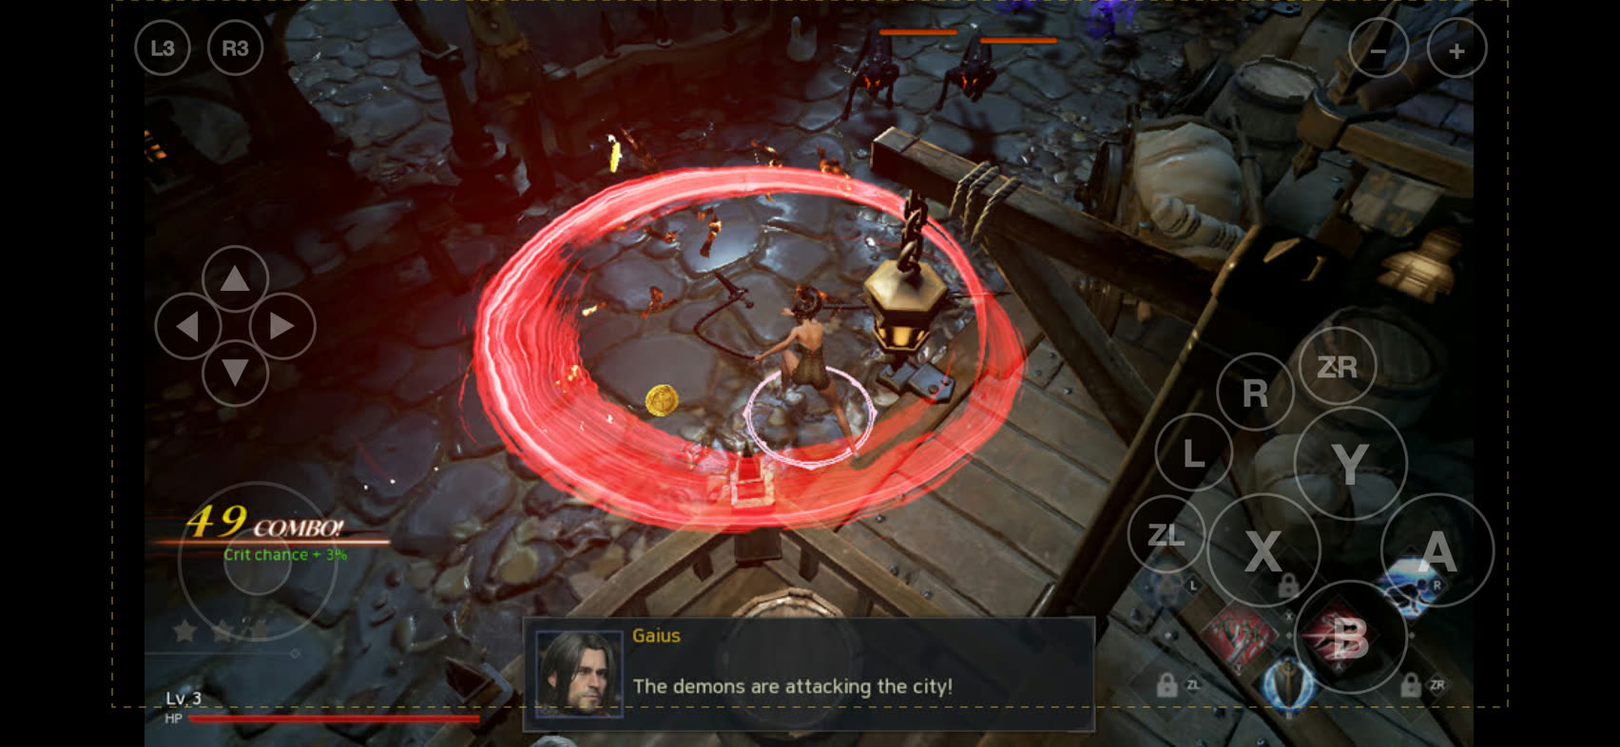
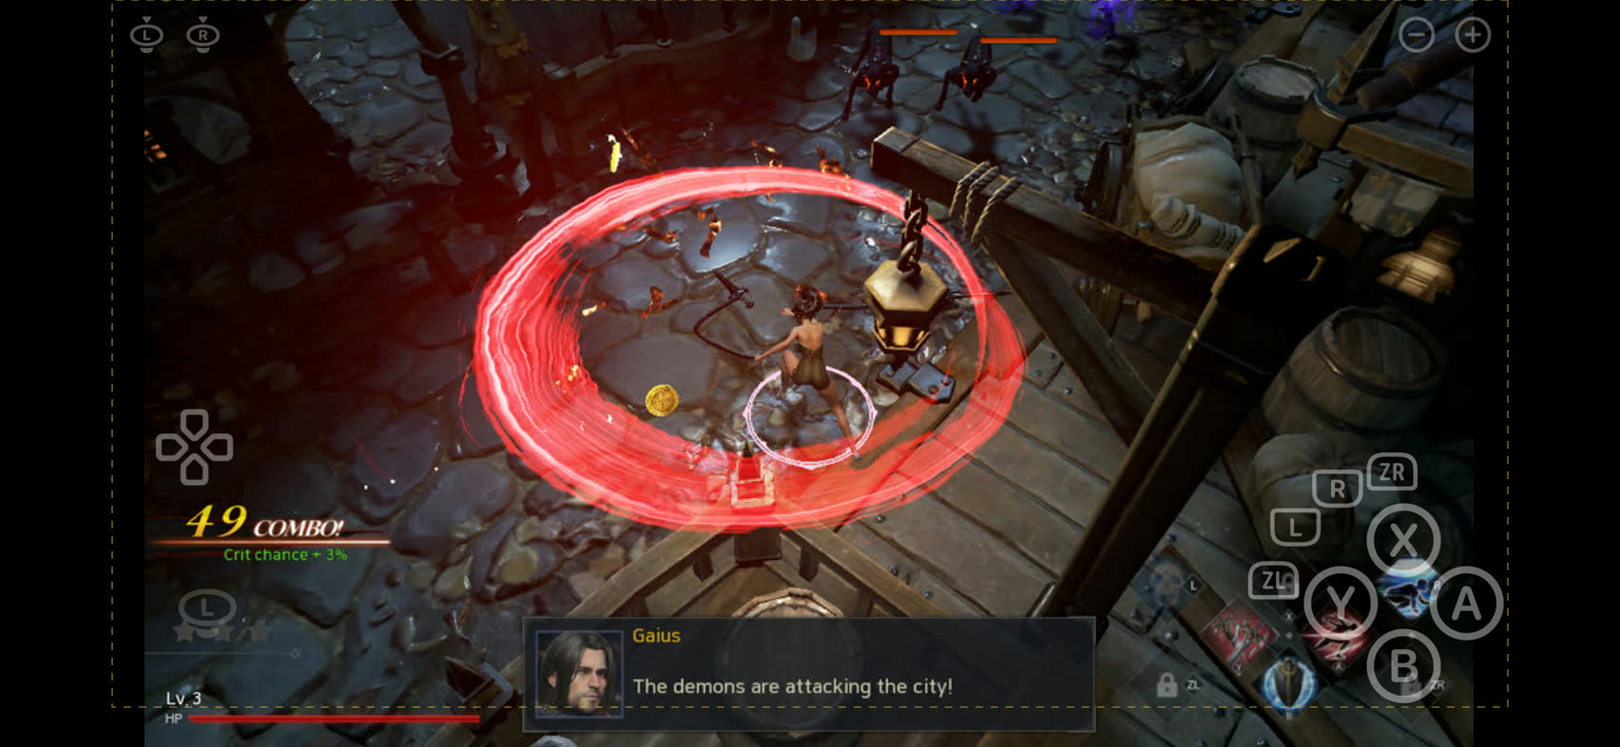
虚拟手柄图层第 2 稿：整体缩小（r = 0.058H，面键 46 点、技能键帽 34 点），键帽改用系统 SF Symbols 的 Switch 手柄图标（a.circle / zl.button.roundedtop.horizontal / dpad / l.joystick…，按下换 .fill），十字键合成一个图标，摇杆空闲只留一个淡图标
pad_layout.h 新增 pad_glyph 回调（iOS：UIImage systemImageNamed 渲 3x 白位图缓存；Mac 效果图：NSImage 系统符号），只取位图 alpha 染白；
无图标时退回圈 + 字。菱形改成 Switch 排法（X 上 Y 左 A 右 B 下）。效果图与 docs/ios_pad.md 同步更新；iOS Debug 未签名包编过。

Claude-Session: https://claude.ai/code/session_01DDDgrjNGDwfa5NRsJqi9pz

diff --git a/dm/ios/blade/Sources/pad_layout.h b/dm/ios/blade/Sources/pad_layout.h
@@ -1,30 +1,32 @@
-// Blade II 触摸虚拟手柄的图层：几何（放哪、多大、命中）与绘制（CoreGraphics + CoreText），纯 C，不依赖 UIKit，
+// Blade II 触摸虚拟手柄的图层：几何（放哪、多大、命中）与绘制（CoreGraphics），纯 C，不依赖 UIKit，
 // 所以 iOS 壳（front_blade.m 的覆盖层）和 Mac 上的效果图工具（tools/pad_mockup.m）用的是同一份代码——效果图里看到的就是真机上画的。
-// 坐标系：原点左上、y 向下（UIKit drawRect 的上下文即如此；效果图工具自己翻转位图上下文）。
+// 键帽用系统自带的手柄图标（SF Symbols：a.circle、zl.button.roundedtop.horizontal、dpad、l.joystick…，正是 Switch 的键形），
+// 由宿主通过 pad_glyph 回调提供位图（iOS：UIImage systemImageNamed；Mac：NSImage imageWithSystemSymbolName），这里只负责摆放与染色；
+// 没有图标时退回画字。坐标系：原点左上、y 向下（UIKit drawRect 的上下文即如此；效果图工具自己翻转位图上下文）。
 //
 // 布局依据（BladeII/Config/DefaultInput.ini）：游戏把全部手柄键都映射成动作（面键 4、肩键 L/R、扳机 ZL/ZR、十字键 4、＋ −、L3 R3），
 // 左摇杆走移动轴（死区 0.25），右摇杆只在背包里旋转角色（InvenRotateMove）。战斗 HUD 右下角 4 个技能格的键提示是 L / ZL / R / ZR，所以：
-//   · 右下：A/B/X/Y 菱形（主攻击 / 闪避区，最大）；外圈 4 个技能键按 ZL L R ZR 从左到上排成弧，都在右手拇指转动半径内；
-//   · 左半屏：浮动左摇杆（落点为中心），空闲时在左下画一个淡圈提示；十字键小簇放左侧中部、摇杆圈之上；
+//   · 右下：A/B/X/Y 菱形（Switch 排法：X 上 Y 左 A 右 B 下；主攻击 / 闪避区，最大）；外圈 4 个技能键按 ZL L R ZR 从左到上排成弧，都在右手拇指转动半径内；
+//   · 左半屏：浮动左摇杆（落点为中心），空闲时左下只画一个淡的摇杆图标提示；十字键一个图标放左侧中部、摇杆区之上；
 //   · 顶边：左上 L3 R3（极少用，最小最淡），右上 − ＋；
-//   · 右半屏空处 = 右摇杆（只有背包用，不画空闲圈）。
-// 画面是 16:9 居中留黑边（nvn_mtl.m 的出图视口），iPhone 19.5:9 两侧各有约 H×0.09 的黑柱，摇杆空闲圈与菱形的外沿正好落在黑柱里，少盖 HUD。
-// 尺寸以窗口高为基准：r = H×0.075（夹在 20–40 点，DM_PAD_SCALE 再乘），iPhone 横屏 393 点高 → 直径 59 点，符合 44 点的可点最小尺寸。
+//   · 右半屏空处 = 右摇杆（只有背包用，不画空闲提示）。
+// 画面是 16:9 居中留黑边（nvn_mtl.m 的出图视口），iPhone 19.5:9 两侧各有约 H×0.09 的黑柱，摇杆提示与菱形的外沿落在黑柱里，少盖 HUD。
+// 尺寸以窗口高为基准：r = H×0.058（夹在 17–32 点，DM_PAD_SCALE 再乘），iPhone 横屏 393 点高 → 面键直径 46 点（≥ 44 点可点最小值），技能键 33 点。
 //
-// Touch gamepad layer for Blade II: geometry (where, how big, hit testing) and drawing (CoreGraphics + CoreText), plain C with no UIKit dependency,
+// Touch gamepad layer for Blade II: geometry (where, how big, hit testing) and drawing (CoreGraphics), plain C with no UIKit dependency,
 // so the iOS shell (overlay in front_blade.m) and the Mac mock-up tool (tools/pad_mockup.m) share one copy -- what the mock-up shows is what the device draws.
-// Coordinates: origin top left, y down (what UIKit's drawRect context uses; the mock-up tool flips its bitmap context itself).
+// Key caps are the system's own controller glyphs (SF Symbols: a.circle, zl.button.roundedtop.horizontal, dpad, l.joystick... -- the Switch shapes),
+// supplied as bitmaps by the host through the pad_glyph callback (iOS: UIImage systemImageNamed; Mac: NSImage imageWithSystemSymbolName); this file only
+// places and tints them, and falls back to text when no glyph is available. Coordinates: origin top left, y down (UIKit's drawRect context; the mock-up tool flips its own bitmap context).
 //
 // Layout rationale (BladeII/Config/DefaultInput.ini): the game maps every controller button to an action (4 face, L/R, ZL/ZR, 4 d-pad, + -, L3 R3),
 // the left stick drives the move axes (dead zone 0.25) and the right stick is only used to rotate the character in the inventory (InvenRotateMove).
 // The combat HUD's four skill slots bottom right are labelled L / ZL / R / ZR, hence:
-//   - bottom right: A/B/X/Y diamond (attack / dodge, largest); an outer arc of the 4 skill keys ZL L R ZR from left to top, all within the right thumb's swing;
-//   - left half: floating left stick (landing point = centre), a faint idle ring bottom left as a hint; small d-pad cluster mid-left above the ring;
+//   - bottom right: A/B/X/Y diamond (Switch order: X top, Y left, A right, B bottom; attack / dodge, largest); an outer arc of the 4 skill keys ZL L R ZR from left to top;
+//   - left half: floating left stick (landing point = centre), idle = one faint joystick glyph bottom left; one d-pad glyph mid-left above the stick zone;
 //   - top edge: L3 R3 top left (rarely used, smallest and faintest), - + top right;
-//   - free space in the right half = right stick (inventory only, no idle ring).
-// The picture is 16:9 centred with black bars (present viewport in nvn_mtl.m); a 19.5:9 iPhone has ~H*0.09 pillars each side, and the idle stick ring
-// and the diamond's outer edge land in those pillars, covering less HUD.
-// Sizes are relative to the window height: r = H*0.075 (clamped 20-40 pt, times DM_PAD_SCALE); 393 pt landscape iPhone -> 59 pt diameter, above the 44 pt minimum.
+//   - free space in the right half = right stick (inventory only, no idle hint).
+// Sizes are relative to the window height: r = H*0.058 (clamped 17-32 pt, times DM_PAD_SCALE); 393 pt landscape iPhone -> 46 pt face buttons (>= 44 pt minimum), 33 pt skill keys.
 #pragma once
 #include <CoreGraphics/CoreGraphics.h>
 #include <CoreText/CoreText.h>
@@ -35,11 +37,23 @@
 enum { PB_A, PB_B, PB_X, PB_Y, PB_L, PB_R, PB_ZL, PB_ZR, PB_PLUS, PB_MINUS, PB_LS, PB_RS, PB_UP, PB_DOWN, PB_LEFT, PB_RIGHT, PB_N };
 static const uint64_t k_bit[PB_N] = {DM_BTN_A, DM_BTN_B, DM_BTN_X, DM_BTN_Y, DM_BTN_L, DM_BTN_R, DM_BTN_ZL, DM_BTN_ZR, DM_BTN_PLUS, DM_BTN_MINUS, DM_BTN_LS, DM_BTN_RS, DM_BTN_UP, DM_BTN_DOWN, DM_BTN_LEFT, DM_BTN_RIGHT};
 static const char *k_label[PB_N] = {"A", "B", "X", "Y", "L", "R", "ZL", "ZR", "+", "−", "L3", "R3", "▲", "▼", "◀", "▶"};
-typedef struct { CGPoint c; CGFloat r, hit; } pad_circle;          // hit：命中半径（比画的大） | hit: hit-test radius (larger than the drawn one)
+// 图标名（松开 / 按下）；十字键四向共用一个 dpad 图标，按下画对应的 dpad.<向>.filled | glyph names (released / held); the four d-pad directions share one dpad glyph, a held direction draws dpad.<dir>.filled
+static const char *k_glyph[PB_N][2] = {
+    {"a.circle", "a.circle.fill"}, {"b.circle", "b.circle.fill"}, {"x.circle", "x.circle.fill"}, {"y.circle", "y.circle.fill"},
+    {"l.button.roundedbottom.horizontal", "l.button.roundedbottom.horizontal.fill"}, {"r.button.roundedbottom.horizontal", "r.button.roundedbottom.horizontal.fill"},
+    {"zl.button.roundedtop.horizontal", "zl.button.roundedtop.horizontal.fill"}, {"zr.button.roundedtop.horizontal", "zr.button.roundedtop.horizontal.fill"},
+    {"plus.circle", "plus.circle.fill"}, {"minus.circle", "minus.circle.fill"},
+    {"l.joystick.press.down", "l.joystick.press.down.fill"}, {"r.joystick.press.down", "r.joystick.press.down.fill"},
+    {"dpad", "dpad.up.filled"}, {"dpad", "dpad.down.filled"}, {"dpad", "dpad.left.filled"}, {"dpad", "dpad.right.filled"}};
+typedef CGImageRef (*pad_glyph_fn)(const char *name);   // 宿主提供：按名取图标位图（任意颜色，只用 alpha；可缓存，归宿主持有） | host-provided: glyph bitmap by name (any colour, only alpha is used; may be cached, owned by the host)
+static pad_glyph_fn pad_glyph;
+
+typedef struct { CGPoint c; CGFloat r, hit; } pad_circle;          // r：画的半径 / 图标半宽；hit：命中半径 | r: drawn radius / half glyph width; hit: hit-test radius
 typedef struct {
     pad_circle btn[PB_N];
     CGFloat r, stick_r;             // 基准半径 / 摇杆满偏半径 | base radius / stick full-deflection radius
-    CGPoint ls_idle;                // 左摇杆空闲提示圈的中心 | centre of the idle left-stick hint ring
+    CGPoint ls_idle, dpad_c;        // 左摇杆空闲提示位置 / 十字键图标中心 | idle left-stick hint position / d-pad glyph centre
+    CGFloat dpad_box;               // 十字键图标边长 | d-pad glyph size
     CGFloat split_x;                // 左 / 右摇杆落点区分界 | boundary between the left- and right-stick landing zones
     CGSize size; CGRect pic;        // 窗口 / 16:9 画面矩形 | window / 16:9 picture rect
 } pad_layout;
@@ -52,26 +66,27 @@ static inline CGRect pad_picture_rect(CGSize sz) {
 }
 static inline pad_circle pad_c(CGFloat x, CGFloat y, CGFloat r, CGFloat hit) { return (pad_circle){{x, y}, r, hit}; }
 static inline void pad_layout_make(pad_layout *L, CGSize sz, CGFloat in_top, CGFloat in_left, CGFloat in_bottom, CGFloat in_right, CGFloat scale) {
-    CGFloat H = sz.height, W = sz.width, r = fmin(40, fmax(20, H * 0.075)) * (scale > 0 ? scale : 1);
+    CGFloat H = sz.height, W = sz.width, r = fmin(32, fmax(17, H * 0.058)) * (scale > 0 ? scale : 1);
     CGFloat bot = H - in_bottom, top = in_top, left = in_left, right = W - in_right;
-    L->size = sz; L->pic = pad_picture_rect(sz); L->r = r; L->stick_r = 2.0 * r; L->split_x = W * 0.45;
-    // 菱形：中心离右下安全角 2.8r；键距 1.55r；命中 1.2r（相邻键命中圈不重叠：1.55 > 1.2 + 0.35） | diamond: centre 2.8r from the bottom-right safe corner; pitch 1.55r; hit 1.2r
-    CGPoint d = CGPointMake(right - 2.8 * r, bot - 2.8 * r);
-    L->btn[PB_A] = pad_c(d.x + 1.55 * r, d.y, r, 1.2 * r); L->btn[PB_B] = pad_c(d.x, d.y + 1.55 * r, r, 1.2 * r);
-    L->btn[PB_X] = pad_c(d.x - 1.55 * r, d.y, r, 1.2 * r); L->btn[PB_Y] = pad_c(d.x, d.y - 1.55 * r, r, 1.2 * r);
-    // 技能弧：绕菱形中心半径 3.3r，185°→266°（y 向下：185° 偏左略下，266° 正上略右），顺序 ZL L R ZR；半径 0.68r，弧上相邻间隔 0.18r
-    // skill arc: radius 3.3r around the diamond centre, 185 -> 266 degrees (y down: 185 = left slightly below, 266 = straight up slightly right), order ZL L R ZR
-    static const int arc_btn[4] = {PB_ZL, PB_L, PB_R, PB_ZR}; static const double arc_deg[4] = {185, 212, 239, 266};
-    for (int i = 0; i < 4; i++) { double a = arc_deg[i] * M_PI / 180; L->btn[arc_btn[i]] = pad_c(d.x + 3.3 * r * cos(a), d.y + 3.3 * r * sin(a), 0.68 * r, 0.95 * r); }
+    L->size = sz; L->pic = pad_picture_rect(sz); L->r = r; L->stick_r = 1.8 * r; L->split_x = W * 0.45;
+    // 菱形：中心离右下安全角 2.4r；键距 1.45r；命中 1.1r | diamond: centre 2.4r from the bottom-right safe corner; pitch 1.45r; hit 1.1r
+    CGPoint d = CGPointMake(right - 2.4 * r, bot - 2.4 * r);
+    L->btn[PB_A] = pad_c(d.x + 1.45 * r, d.y, r, 1.1 * r); L->btn[PB_B] = pad_c(d.x, d.y + 1.45 * r, r, 1.1 * r);
+    L->btn[PB_Y] = pad_c(d.x - 1.45 * r, d.y, r, 1.1 * r); L->btn[PB_X] = pad_c(d.x, d.y - 1.45 * r, r, 1.1 * r);
+    // 技能弧：绕菱形中心半径 3.05r，190°→265°（y 向下：190° 偏左略下，265° 正上略右），顺序 ZL L R ZR；键帽半宽 0.72r，命中 0.92r
+    // skill arc: radius 3.05r around the diamond centre, 190 -> 265 degrees (y down), order ZL L R ZR; cap half-width 0.72r, hit 0.92r
+    static const int arc_btn[4] = {PB_ZL, PB_L, PB_R, PB_ZR}; static const double arc_deg[4] = {190, 215, 240, 265};
+    for (int i = 0; i < 4; i++) { double a = arc_deg[i] * M_PI / 180; L->btn[arc_btn[i]] = pad_c(d.x + 3.05 * r * cos(a), d.y + 3.05 * r * sin(a), 0.72 * r, 0.92 * r); }
     // 顶边：右上 − ＋，左上 L3 R3 | top edge: - + top right, L3 R3 top left
-    L->btn[PB_PLUS] = pad_c(right - 0.9 * r, top + 0.85 * r, 0.52 * r, 0.8 * r); L->btn[PB_MINUS] = pad_c(right - 2.3 * r, top + 0.85 * r, 0.52 * r, 0.8 * r);
-    L->btn[PB_LS] = pad_c(left + 0.9 * r, top + 0.85 * r, 0.48 * r, 0.75 * r); L->btn[PB_RS] = pad_c(left + 2.2 * r, top + 0.85 * r, 0.48 * r, 0.75 * r);
-    // 左摇杆空闲圈：左下安全角内 2.6r；十字键簇在圈上方 | idle left-stick ring 2.6r inside the bottom-left safe corner; d-pad cluster above it
-    L->ls_idle = CGPointMake(left + 2.6 * r, bot - 2.6 * r);
-    CGFloat q = 0.58 * r; CGPoint c = CGPointMake(left + 2.2 * r, L->ls_idle.y - L->stick_r - 2.2 * r);
-    if (c.y - 1.45 * q - q < top + 1.8 * r) c.y = top + 1.8 * r + 1.45 * q + q;   // 矮屏：别压到 L3 R3 | short screens: stay clear of L3 R3
-    L->btn[PB_UP] = pad_c(c.x, c.y - 1.45 * q, q, 1.1 * q); L->btn[PB_DOWN] = pad_c(c.x, c.y + 1.45 * q, q, 1.1 * q);
-    L->btn[PB_LEFT] = pad_c(c.x - 1.45 * q, c.y, q, 1.1 * q); L->btn[PB_RIGHT] = pad_c(c.x + 1.45 * q, c.y, q, 1.1 * q);
+    L->btn[PB_PLUS] = pad_c(right - 0.8 * r, top + 0.8 * r, 0.5 * r, 0.75 * r); L->btn[PB_MINUS] = pad_c(right - 2.1 * r, top + 0.8 * r, 0.5 * r, 0.75 * r);
+    L->btn[PB_LS] = pad_c(left + 0.8 * r, top + 0.8 * r, 0.5 * r, 0.75 * r); L->btn[PB_RS] = pad_c(left + 2.1 * r, top + 0.8 * r, 0.5 * r, 0.75 * r);
+    // 左摇杆空闲提示：左下安全角内 2.2r；十字键图标在摇杆区上方 | idle left-stick hint 2.2r inside the bottom-left safe corner; d-pad glyph above the stick zone
+    L->ls_idle = CGPointMake(left + 2.2 * r, bot - 2.2 * r);
+    CGFloat q = 0.5 * r; L->dpad_box = 4.4 * q; CGPoint c = CGPointMake(left + 1.9 * r, L->ls_idle.y - L->stick_r - 2.0 * r);
+    if (c.y - 2.2 * q < top + 1.7 * r) c.y = top + 1.7 * r + 2.2 * q;   // 矮屏：别压到 L3 R3 | short screens: stay clear of L3 R3
+    L->dpad_c = c;
+    L->btn[PB_UP] = pad_c(c.x, c.y - 1.3 * q, q, 1.25 * q); L->btn[PB_DOWN] = pad_c(c.x, c.y + 1.3 * q, q, 1.25 * q);
+    L->btn[PB_LEFT] = pad_c(c.x - 1.3 * q, c.y, q, 1.25 * q); L->btn[PB_RIGHT] = pad_c(c.x + 1.3 * q, c.y, q, 1.25 * q);
 }
 static inline int pad_hit(const pad_layout *L, CGPoint p) {
     int best = -1; CGFloat bd = 1e9;
@@ -100,26 +115,49 @@ static inline void pad_text(CGContextRef g, const char *s, CGPoint c, CGFloat px
     CGContextRestoreGState(g);
     CFRelease(line); CFRelease(as); CFRelease(at); CGColorRelease(col); CGColorSpaceRelease(cs); CFRelease(font); CFRelease(str);
 }
-// 键：深色半透明底 + 白边 + 标签；按下时底变白。技能键 / 顶边小键字号按半径缩 | button: dark translucent fill + white ring + label; fill turns white while held
-static inline void pad_draw_button(CGContextRef g, pad_circle c, const char *lb, int on) {
-    CGRect r = CGRectMake(c.c.x - c.r, c.c.y - c.r, 2 * c.r, 2 * c.r);
-    if (on) CGContextSetRGBFillColor(g, 1, 1, 1, 0.55); else CGContextSetRGBFillColor(g, 0, 0, 0, 0.28);
-    CGContextFillEllipseInRect(g, r);
-    CGContextSetRGBStrokeColor(g, 1, 1, 1, on ? 0.9 : 0.6); CGContextSetLineWidth(g, 1.5); CGContextStrokeEllipseInRect(g, r);
-    int two = lb[0] && lb[1] && (unsigned char)lb[0] < 0x80;   // 两个 ASCII 字符（ZL/ZR/L3/R3）字号略小 | two ASCII characters get a slightly smaller font
-    pad_text(g, lb, c.c, c.r * (two ? 0.78 : 1.0), on ? 1.0 : 0.85);
+// 图标：按最长边缩进 box 点的方框、居中，用白色按 alpha 染色（只取位图的形状） | glyph: fit the longer side into a box of `box` points, centred, tinted white at alpha (only the bitmap's shape is used)
+static inline int pad_glyph_draw(CGContextRef g, const char *name, CGPoint c, CGFloat box, CGFloat alpha) {
+    CGImageRef im = pad_glyph ? pad_glyph(name) : NULL; if (!im) return 0;
+    CGFloat iw = CGImageGetWidth(im), ih = CGImageGetHeight(im), s = box / fmax(iw, ih), w = iw * s, h = ih * s;
+    CGRect r = CGRectMake(c.x - w / 2, c.y - h / 2, w, h);
+    CGContextSaveGState(g); CGContextBeginTransparencyLayerWithRect(g, r, NULL);
+    CGContextTranslateCTM(g, 0, r.origin.y * 2 + h); CGContextScaleCTM(g, 1, -1);   // CGImage 在 y 向下的上下文里要翻回来 | a CGImage must be flipped back in a y-down context
+    CGContextSetInterpolationQuality(g, kCGInterpolationHigh); CGContextDrawImage(g, r, im);
+    CGContextSetBlendMode(g, kCGBlendModeSourceIn); CGContextSetRGBFillColor(g, 1, 1, 1, alpha); CGContextFillRect(g, r);
+    CGContextEndTransparencyLayer(g); CGContextRestoreGState(g);
+    return 1;
 }
-// 空闲提示圈画成满偏半径的 0.7（只是提示落点区，少盖左下的连击数 / 血条），按着时按满偏画 | the idle hint ring is drawn at 0.7 of the full-deflection radius (just marks the landing zone, covers less of the combo counter / HP bar bottom left); while held it is drawn at full size
-static inline void pad_draw_stick(CGContextRef g, const pad_layout *L, CGPoint c, CGPoint p, int on) {
-    CGFloat R = on ? L->stick_r : L->stick_r * 0.7;
-    CGContextSetRGBFillColor(g, 0, 0, 0, on ? 0.18 : 0.10); CGContextFillEllipseInRect(g, CGRectMake(c.x - R, c.y - R, 2 * R, 2 * R));
-    CGContextSetRGBStrokeColor(g, 1, 1, 1, on ? 0.65 : 0.3); CGContextSetLineWidth(g, 2); CGContextStrokeEllipseInRect(g, CGRectMake(c.x - R, c.y - R, 2 * R, 2 * R));
+static inline void pad_disc(CGContextRef g, CGPoint c, CGFloat r, CGFloat alpha) { CGContextSetRGBFillColor(g, 0, 0, 0, alpha); CGContextFillEllipseInRect(g, CGRectMake(c.x - r, c.y - r, 2 * r, 2 * r)); }
+static inline void pad_draw_button(CGContextRef g, const pad_layout *L, int i, int on) {
+    pad_circle c = L->btn[i]; CGFloat box = 2 * c.r;
+    if (i <= PB_Y) { pad_disc(g, c.c, c.r * 0.96, on ? 0.15 : 0.34); box = 2.04 * c.r; }          // 面键：深底 + 圆标（按下换实心） | face: dark disc + circled letter (filled when held)
+    else if (i <= PB_ZR) {   // 技能键：键帽形的深色圆角底（图标 84:63）+ 键帽 | skill: key-cap shaped dark rounded backing (glyph is 84:63) + key cap
+        CGFloat w = 1.5 * c.r, h = w * 63 / 84; CGPathRef rr = CGPathCreateWithRoundedRect(CGRectMake(c.c.x - w / 2, c.c.y - h / 2, w, h), h * 0.3, h * 0.3, NULL);
+        CGContextSetRGBFillColor(g, 0, 0, 0, on ? 0.12 : 0.30); CGContextAddPath(g, rr); CGContextFillPath(g); CGPathRelease(rr); box = 2.0 * c.r; }
+    if (!pad_glyph_draw(g, k_glyph[i][on ? 1 : 0], c.c, box, i <= PB_ZR ? (on ? 1.0 : 0.88) : (on ? 1.0 : 0.7))) {
+        CGRect rr = CGRectMake(c.c.x - c.r, c.c.y - c.r, 2 * c.r, 2 * c.r);                             // 没有图标：圈 + 字 | no glyph: ring + text
+        CGContextSetRGBStrokeColor(g, 1, 1, 1, on ? 0.9 : 0.5); CGContextSetLineWidth(g, 1.2); CGContextStrokeEllipseInRect(g, rr);
+        pad_text(g, k_label[i], c.c, c.r * 0.85, on ? 1.0 : 0.8);
+    }
+}
+static inline void pad_draw_dpad(CGContextRef g, const pad_layout *L, uint64_t held) {
+    pad_disc(g, L->dpad_c, L->dpad_box * 0.5, 0.26);
+    int any = 0; for (int i = PB_UP; i <= PB_RIGHT; i++) if (held & k_bit[i]) { any = 1; if (!pad_glyph_draw(g, k_glyph[i][1], L->dpad_c, L->dpad_box, 1.0)) break; }
+    if (!any && !pad_glyph_draw(g, k_glyph[PB_UP][0], L->dpad_c, L->dpad_box, 0.8)) for (int i = PB_UP; i <= PB_RIGHT; i++) pad_draw_button(g, L, i, (held & k_bit[i]) != 0);
+}
+static inline void pad_draw_stick(CGContextRef g, const pad_layout *L, CGPoint c, CGPoint p) {
+    CGFloat R = L->stick_r;
+    pad_disc(g, c, R, 0.18);
+    CGContextSetRGBStrokeColor(g, 1, 1, 1, 0.22); CGContextSetLineWidth(g, 1); CGContextStrokeEllipseInRect(g, CGRectMake(c.x - R, c.y - R, 2 * R, 2 * R));
     CGFloat dx = p.x - c.x, dy = p.y - c.y, d = sqrt(dx * dx + dy * dy); if (d > R) { dx *= R / d; dy *= R / d; }
-    CGFloat k = R * 0.42; CGContextSetRGBFillColor(g, 1, 1, 1, on ? 0.6 : 0.22); CGContextFillEllipseInRect(g, CGRectMake(c.x + dx - k, c.y + dy - k, 2 * k, 2 * k));
-    CGContextSetRGBStrokeColor(g, 1, 1, 1, on ? 0.9 : 0.4); CGContextSetLineWidth(g, 1.5); CGContextStrokeEllipseInRect(g, CGRectMake(c.x + dx - k, c.y + dy - k, 2 * k, 2 * k));
+    CGFloat k = R * 0.42; CGRect kr = CGRectMake(c.x + dx - k, c.y + dy - k, 2 * k, 2 * k);
+    CGContextSetRGBFillColor(g, 1, 1, 1, 0.42); CGContextFillEllipseInRect(g, kr);
+    CGContextSetRGBStrokeColor(g, 1, 1, 1, 0.7); CGContextSetLineWidth(g, 1); CGContextStrokeEllipseInRect(g, kr);
 }
 static inline void pad_draw(CGContextRef g, const pad_layout *L, const pad_state *S) {
-    for (int i = 0; i < PB_N; i++) pad_draw_button(g, L->btn[i], k_label[i], (S->held & k_bit[i]) != 0);
-    if (S->ls_on) pad_draw_stick(g, L, S->ls_c, S->ls_p, 1); else pad_draw_stick(g, L, L->ls_idle, L->ls_idle, 0);
-    if (S->rs_on) pad_draw_stick(g, L, S->rs_c, S->rs_p, 1);
+    for (int i = 0; i < PB_UP; i++) pad_draw_button(g, L, i, (S->held & k_bit[i]) != 0);
+    pad_draw_dpad(g, L, S->held);
+    if (S->ls_on) pad_draw_stick(g, L, S->ls_c, S->ls_p);
+    else if (!pad_glyph_draw(g, "l.joystick", L->ls_idle, 1.6 * L->r, 0.4)) { pad_disc(g, L->ls_idle, 0.7 * L->stick_r, 0.12); }   // 空闲：一个淡摇杆图标提示落点区 | idle: one faint joystick glyph marks the landing zone
+    if (S->rs_on) pad_draw_stick(g, L, S->rs_c, S->rs_p);
 }

diff --git a/dm/ios/blade/Sources/front_blade.m b/dm/ios/blade/Sources/front_blade.m
@@ -29,6 +29,21 @@ static CAMetalLayer *g_layer;
 // Environment: DM_PAD_OVERLAY=0 hides it; DM_PAD_SCALE=0.8-1.4 scales everything; DM_PAD_ALPHA = idle opacity (default 0.45, fades 2.5 s after the last touch, restored on the next touch); DM_PAD_HAPTIC=0 disables button haptics
 #include "pad_layout.h"
 static double env_num(const char *k, double dflt) { const char *e = getenv(k); return e && *e ? atof(e) : dflt; }
+// 键帽图标：系统 SF Symbols（Switch 键形），按名渲成 3x 白色位图并缓存；缺的名字记 NSNull，pad_layout.h 会退回画字
+// Key-cap glyphs: system SF Symbols (Switch key shapes) rendered once per name into a 3x white bitmap and cached; missing names are recorded as NSNull and pad_layout.h falls back to text
+static CGImageRef ios_glyph(const char *name) {
+    static NSMutableDictionary *cache; if (!cache) cache = [NSMutableDictionary new];
+    NSString *k = @(name); id v = cache[k]; if (v) return v == NSNull.null ? NULL : (__bridge CGImageRef)v;
+    UIImage *im = [UIImage systemImageNamed:k withConfiguration:[UIImageSymbolConfiguration configurationWithPointSize:64 weight:UIImageSymbolWeightMedium]];
+    CGImageRef cg = NULL;
+    if (im) {
+        UIGraphicsImageRendererFormat *f = [UIGraphicsImageRendererFormat defaultFormat]; f.scale = 3; f.opaque = NO;
+        UIImage *bm = [[[UIGraphicsImageRenderer alloc] initWithSize:im.size format:f] imageWithActions:^(UIGraphicsImageRendererContext *c) { (void)c;
+            [[im imageWithTintColor:UIColor.whiteColor renderingMode:UIImageRenderingModeAlwaysOriginal] drawInRect:(CGRect){CGPointZero, im.size}]; }];
+        cg = CGImageRetain(bm.CGImage);
+    } else LOG("虚拟手柄：没有图标 %s（退回画字）", name);
+    cache[k] = cg ? (__bridge id)cg : NSNull.null; return cg;
+}
 
 // ---- 覆盖层：只画 | overlay: draws only ----
 @interface DmPadOverlay : UIView
@@ -53,7 +68,7 @@ typedef struct { UITouch *__unsafe_unretained t; int role, btn; CGPoint c; } slo
     const char *e = getenv("DM_PAD_OVERLAY"); _hide = e && !atoi(e);
     _scale = fmin(1.4, fmax(0.8, env_num("DM_PAD_SCALE", 1.0))); _idleAlpha = fmin(1.0, fmax(0.1, env_num("DM_PAD_ALPHA", 0.45)));
     if (env_num("DM_PAD_HAPTIC", 1) > 0) { _tap = [[UIImpactFeedbackGenerator alloc] initWithStyle:UIImpactFeedbackStyleLight]; [_tap prepare]; }
-    pad_layout_make(&_L, f.size, 0, 0, 0, 0, _scale);
+    pad_glyph = ios_glyph; pad_layout_make(&_L, f.size, 0, 0, 0, 0, _scale);
     _ov = [[DmPadOverlay alloc] initWithFrame:self.bounds]; _ov.layout = &_L; _ov.hidden = _hide; _ov.autoresizingMask = UIViewAutoresizingFlexibleWidth | UIViewAutoresizingFlexibleHeight; [self addSubview:_ov];
     _lastTouch = CFAbsoluteTimeGetCurrent();
     _fade = [NSTimer scheduledTimerWithTimeInterval:0.25 target:self selector:@selector(fadeTick) userInfo:nil repeats:YES];

diff --git a/tools/pad_mockup.m b/tools/pad_mockup.m
@@ -11,6 +11,20 @@
 #include <stdlib.h>
 #include "pad_layout.h"
 
+// 键帽图标：NSImage 的系统符号渲成 3x 位图并缓存（pad_layout.h 只用其 alpha） | key-cap glyphs: NSImage system symbols rendered into 3x bitmaps and cached (pad_layout.h uses only their alpha)
+static CGImageRef mac_glyph(const char *name) {
+    static NSMutableDictionary *cache; if (!cache) cache = [NSMutableDictionary new];
+    NSString *k = @(name); id v = cache[k]; if (v) return v == NSNull.null ? NULL : (__bridge CGImageRef)v;
+    NSImage *im = [[NSImage imageWithSystemSymbolName:k accessibilityDescription:nil] imageWithSymbolConfiguration:[NSImageSymbolConfiguration configurationWithPointSize:64 weight:NSFontWeightMedium]];
+    CGImageRef cg = NULL;
+    if (im) { NSSize sz = im.size; CGFloat q = 3;
+        NSBitmapImageRep *rep = [[NSBitmapImageRep alloc] initWithBitmapDataPlanes:NULL pixelsWide:(NSInteger)(sz.width * q) pixelsHigh:(NSInteger)(sz.height * q) bitsPerSample:8 samplesPerPixel:4 hasAlpha:YES isPlanar:NO colorSpaceName:NSDeviceRGBColorSpace bytesPerRow:0 bitsPerPixel:0];
+        [NSGraphicsContext saveGraphicsState]; NSGraphicsContext.currentContext = [NSGraphicsContext graphicsContextWithBitmapImageRep:rep];
+        [im drawInRect:NSMakeRect(0, 0, sz.width * q, sz.height * q) fromRect:NSZeroRect operation:NSCompositingOperationSourceOver fraction:1];
+        [NSGraphicsContext restoreGraphicsState]; cg = CGImageRetain(rep.CGImage);
+    } else fprintf(stderr, "没有图标 %s\n", name);
+    cache[k] = cg ? (__bridge id)cg : NSNull.null; return cg;
+}
 static int label_index(const char *s) { for (int i = 0; i < PB_N; i++) if (!strcmp(s, k_label[i])) return i; return -1; }
 
 int main(int argc, char **argv) {
@@ -26,7 +40,7 @@ int main(int argc, char **argv) {
         CGContextSetRGBFillColor(g, 0, 0, 0, 1); CGContextFillRect(g, CGRectMake(0, 0, pw, ph));
         // 翻成 y 向下的点坐标系（与 UIKit drawRect 一致） | flip into a y-down point coordinate system (same as UIKit's drawRect)
         CGContextTranslateCTM(g, 0, ph); CGContextScaleCTM(g, scale, -scale);
-        pad_layout L; pad_layout_make(&L, CGSizeMake(W, H), it, il, ib, ir, 1.0);
+        pad_glyph = mac_glyph; pad_layout L; pad_layout_make(&L, CGSizeMake(W, H), it, il, ib, ir, 1.0);
         // 画面：16:9 居中（图片在翻转的上下文里要再翻一次） | picture: 16:9 centred (the image must be flipped back inside the flipped context)
         CGContextSaveGState(g); CGContextTranslateCTM(g, 0, L.pic.origin.y * 2 + L.pic.size.height); CGContextScaleCTM(g, 1, -1);
         CGContextSetInterpolationQuality(g, kCGInterpolationHigh); CGContextDrawImage(g, L.pic, src); CGContextRestoreGState(g);

diff --git a/docs/ios_pad.md b/docs/ios_pad.md
@@ -1,13 +1,13 @@
-# iOS 触摸虚拟手柄图层（设计，2026-10-18）
+# iOS 触摸虚拟手柄图层（设计，2026-10-18，第 2 稿：缩小 + 系统手柄图标）
 
-代码：`dm/ios/blade/Sources/pad_layout.h`（几何 + 绘制，纯 C / CoreGraphics / CoreText）、`dm/ios/blade/Sources/front_blade.m`（触点归类、淡出、震感）、`tools/pad_mockup.m`（Mac 上出效果图，用的是同一份几何与绘制代码）。
+代码：`dm/ios/blade/Sources/pad_layout.h`（几何 + 绘制，纯 C / CoreGraphics；键帽是系统 SF Symbols 的手柄图标 `a.circle` / `zl.button.roundedtop.horizontal` / `dpad` / `l.joystick`…，正是 Switch 的键形，由宿主按名提供位图、这里染白摆放，按下换 `.fill` 实心变体）、`dm/ios/blade/Sources/front_blade.m`（触点归类、淡出、震感）、`tools/pad_mockup.m`（Mac 上出效果图，用的是同一份几何与绘制代码）。
 
 ## 效果图（Mac 渲染，真机画的就是这份）
 
 | | |
 |---|---|
 | ![15 Pro 按着](screenshots/ios_pad_15pro.jpg) iPhone 15 Pro 横屏 852×393 点，安全区 左右 59 / 下 21（黄虚线）；左摇杆推右上、A 与 ZL 按下 | ![15 Pro 空闲](screenshots/ios_pad_15pro_idle.jpg) 同机型，松手 2.5 s 后的空闲态（整层透明度 0.45） |
-| ![SE](screenshots/ios_pad_se.jpg) iPhone SE 级 667×375 点、无安全区、16:9 铺满；B 按下 | |
+| ![SE](screenshots/ios_pad_se.jpg) iPhone SE 级 667×375 点、无安全区、16:9 铺满；B 与十字键下按下 | |
 
 ## 依据
 
@@ -17,16 +17,16 @@
 
 ## 布局
 
-尺寸基准 `r = H × 0.075`，夹在 20–40 点（iPhone 横屏 393 点高 → 29.5 点，直径 59 点 ≥ 44 点可点最小值）。全部相对安全区。
+尺寸基准 `r = H × 0.058`，夹在 17–32 点（iPhone 横屏 393 点高 → 22.8 点，面键直径 46 点 ≥ 44 点可点最小值，技能键帽宽 34 点）。全部相对安全区。第 1 稿是 0.075 H 的粗白圈 + 字母，被否（太大、太丑）。
 
 | 控件 | 位置 | 半径 / 命中 |
 |---|---|---|
-| A / B / X / Y 菱形 | 中心离右下安全角 (2.8r, 2.8r)，键距 1.55r | r / 1.2r（相邻命中圈不重叠） |
-| ZL L R ZR 技能弧 | 绕菱形中心半径 3.3r，185° → 266°（从左到上），都在右拇指转动半径内 | 0.68r / 0.95r |
-| − ＋ | 右上角 | 0.52r / 0.8r |
-| L3 R3 | 左上角（极少用，最小最淡） | 0.48r / 0.75r |
-| 十字键 | 左侧中部、摇杆空闲圈之上（矮屏自动让开 L3 R3） | 0.58r / 1.1× |
-| 左摇杆 | 左 45% 屏空处浮动，落点为中心，满偏 2.0r；空闲时左下 (2.6r, 2.6r) 画 0.7 倍的淡提示圈 | 8% 死区（游戏自己还有 0.25） |
+| A / B / X / Y 菱形（Switch 排法：X 上 Y 左 A 右 B 下） | 中心离右下安全角 (2.4r, 2.4r)，键距 1.45r；深色圆底 + `x.circle` 等圆标 | r / 1.1r |
+| ZL L R ZR 技能弧 | 绕菱形中心半径 3.05r，190° → 265°（从左到上），都在右拇指转动半径内；键帽形深色圆角底 + `zl.button.roundedtop.horizontal` 等键帽 | 0.72r / 0.92r |
+| − ＋ | 右上角，`minus.circle` / `plus.circle`，无底 | 0.5r / 0.75r |
+| L3 R3 | 左上角（极少用，最小最淡），`l.joystick.press.down` / `r.joystick.press.down` | 0.5r / 0.75r |
+| 十字键 | 左侧中部、摇杆区之上（矮屏自动让开 L3 R3）：一个 `dpad` 图标（边长 2.2r）+ 深色圆底，按下画 `dpad.<向>.filled`；命中仍按四个方向分 | 0.5r / 0.625r |
+| 左摇杆 | 左 45% 屏空处浮动，落点为中心，满偏 1.8r（底盘黑 0.18 + 1 点细圈，滑块 0.42 满偏半径）；空闲时左下 (2.2r, 2.2r) 只画一个淡的 `l.joystick` 图标 | 8% 死区（游戏自己还有 0.25） |
 | 右摇杆 | 右 55% 屏空处（背包转角色），不画空闲圈 | 同上 |
 
 ## 行为
@@ -38,11 +38,11 @@
 
 ## 改布局的流程
 
-改 `pad_layout.h` → `clang -fobjc-arc -framework AppKit -framework CoreText -I dm/host -I dm/ios/blade/Sources tools/pad_mockup.m -o /tmp/pad_mockup` → `/tmp/pad_mockup docs/screenshots/03_skeletons.jpg out.png 852 393 0 59 21 59 3 A,ZL 0.7,0.5 1` 看图（工具还会打印每个键的中心 / 半径 / 命中半径）→ 真机 `dm/ios/blade/run.sh build && install && launch`。
+改 `pad_layout.h`（图标名在 `k_glyph`，可换成任意 SF Symbols）→ `clang -fobjc-arc -framework AppKit -framework CoreText -I dm/host -I dm/ios/blade/Sources tools/pad_mockup.m -o /tmp/pad_mockup` → `/tmp/pad_mockup docs/screenshots/03_skeletons.jpg out.png 852 393 0 59 21 59 3 A,ZL 0.7,0.5 1` 看图（工具还会打印每个键的中心 / 半径 / 命中半径）→ 真机 `dm/ios/blade/run.sh build && install && launch`。
 
 ## 真机上要验的
 
 1. 启动日志 `虚拟手柄：窗口 … 安全区 …` 一行的数值与机型相符（横屏左右 59、下 21）。
-2. 拇指盲按菱形与技能弧不误触、不漏触；摇杆落点区与十字键不打架。
+2. 拇指盲按菱形与技能弧不误触、不漏触；摇杆落点区与十字键不打架；图标在真机上的清晰度（3x 位图，渲染字号 64）。
 3. 空闲淡出不遮 HUD；背包里右半屏滑动能转角色。
 4. 整层 `drawRect` 的重绘开销（每次触点变化重画一次 Core Graphics）对帧时间的影响——如可见，改成 CALayer 分层只动变化的键。
